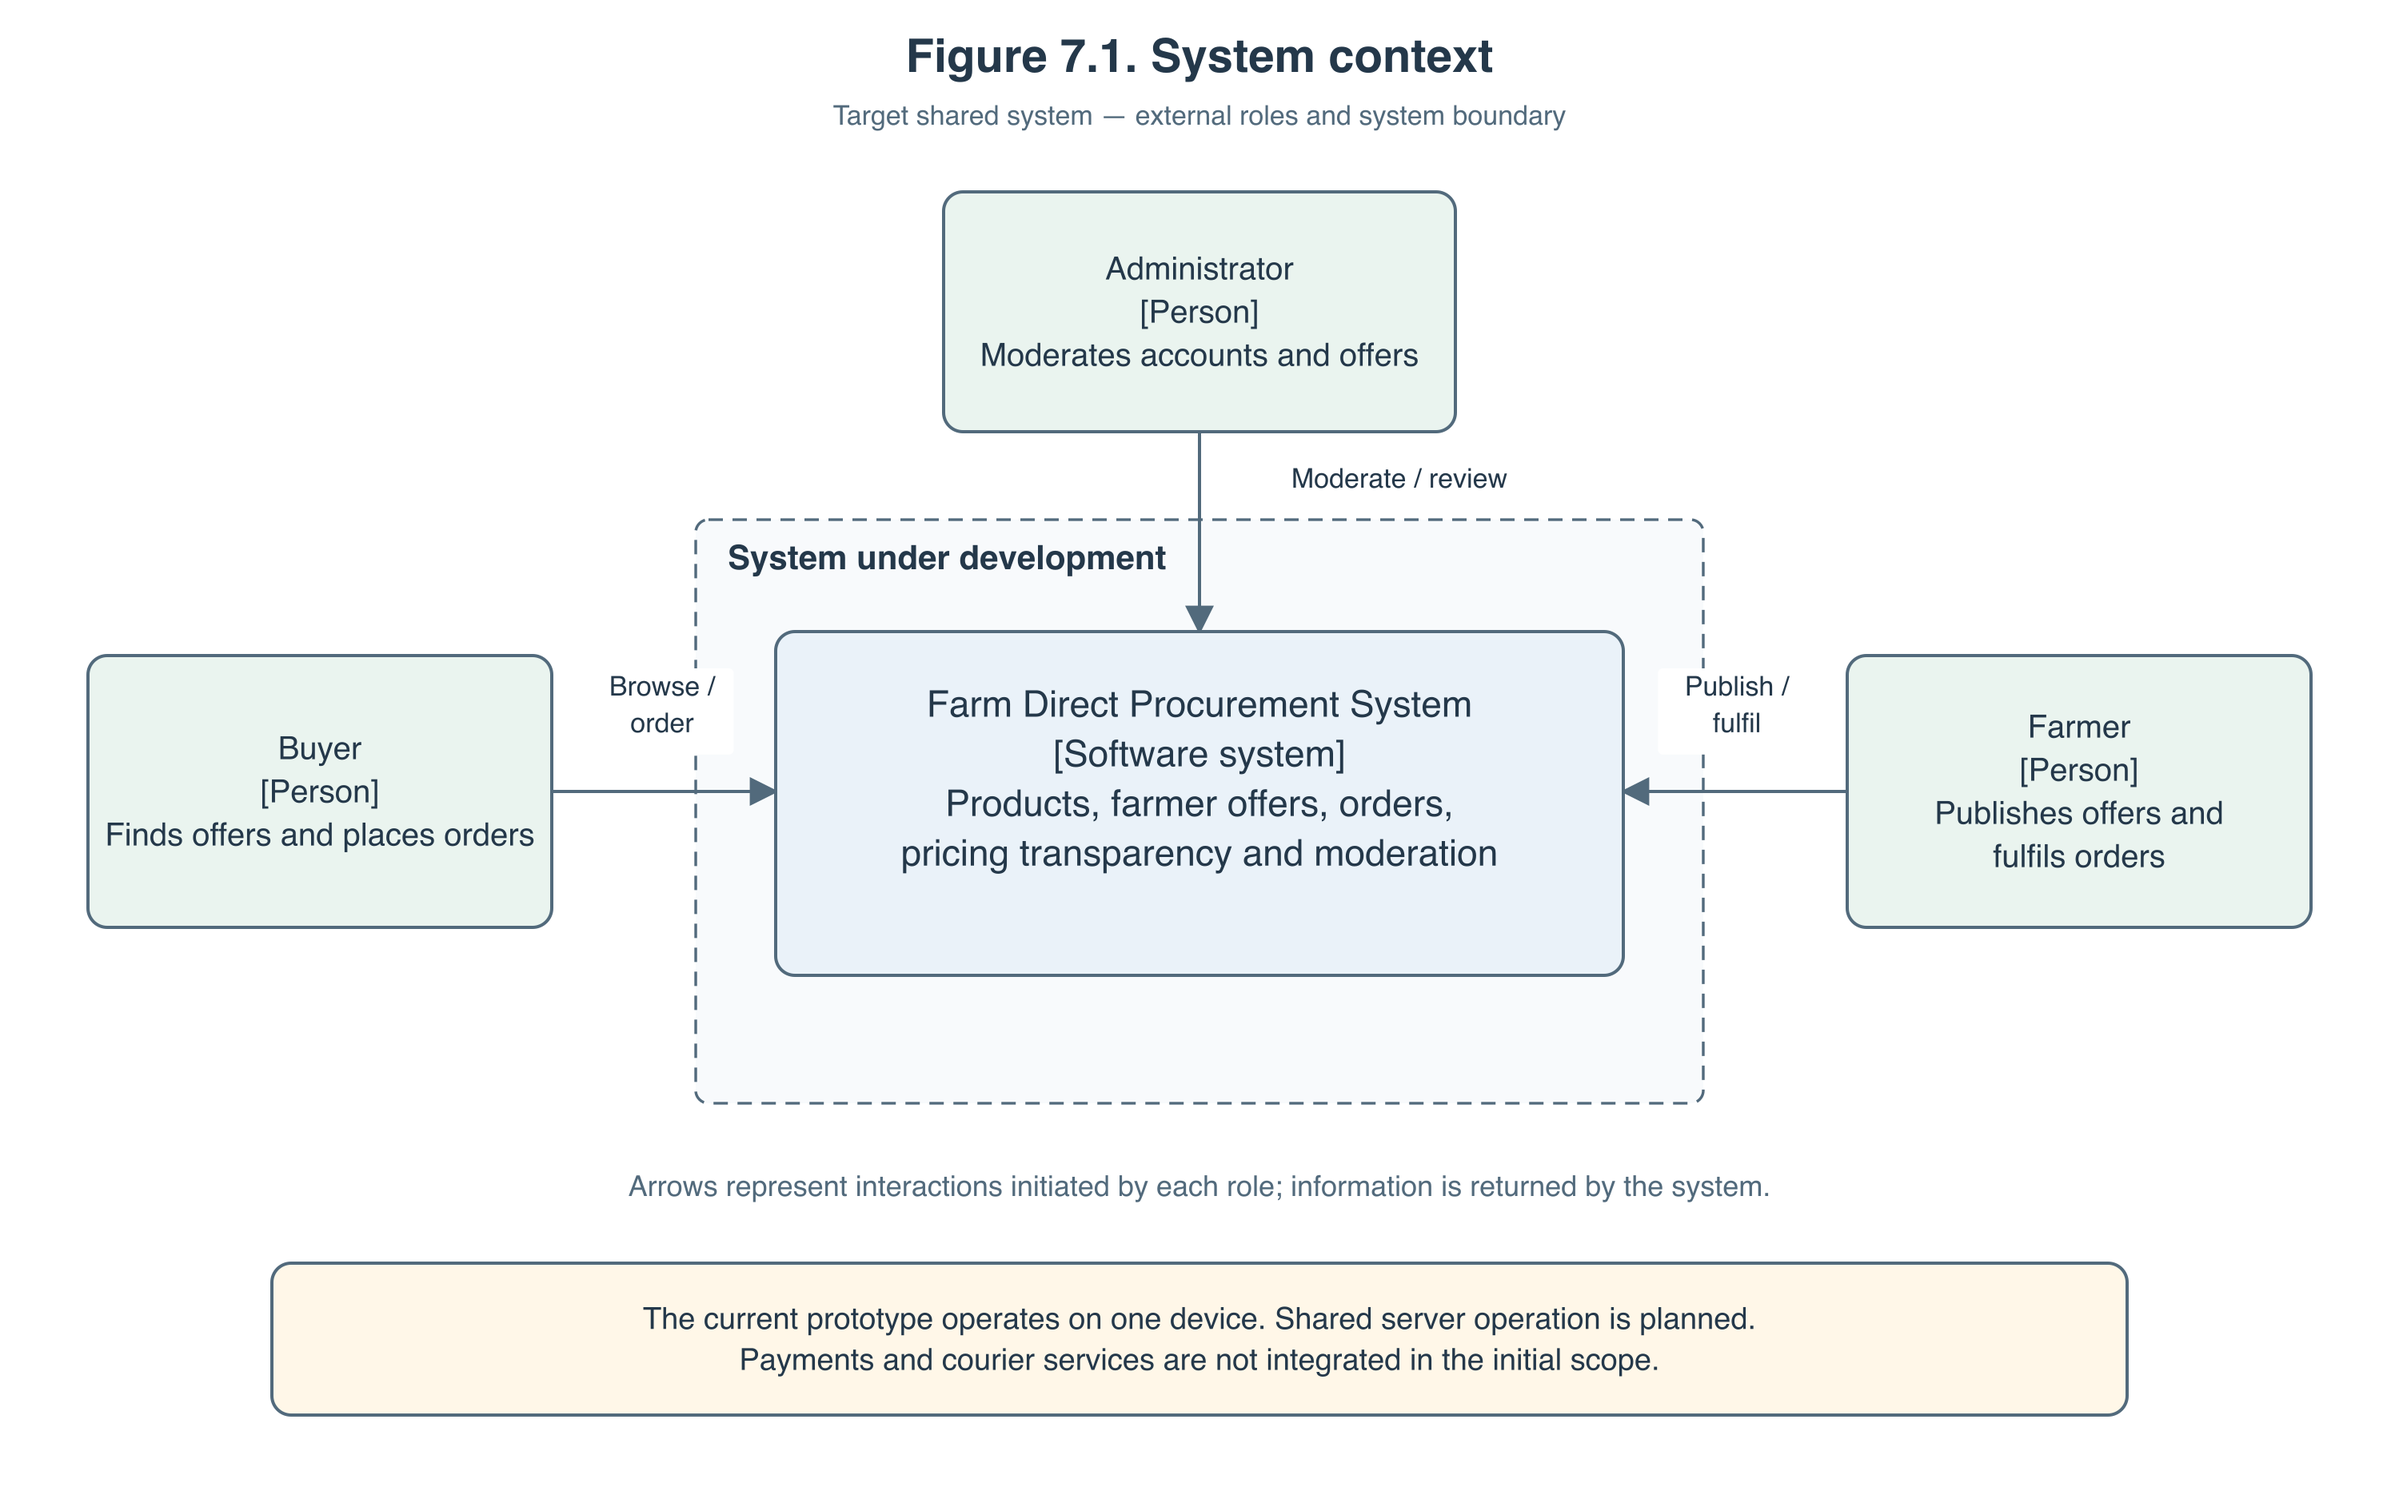
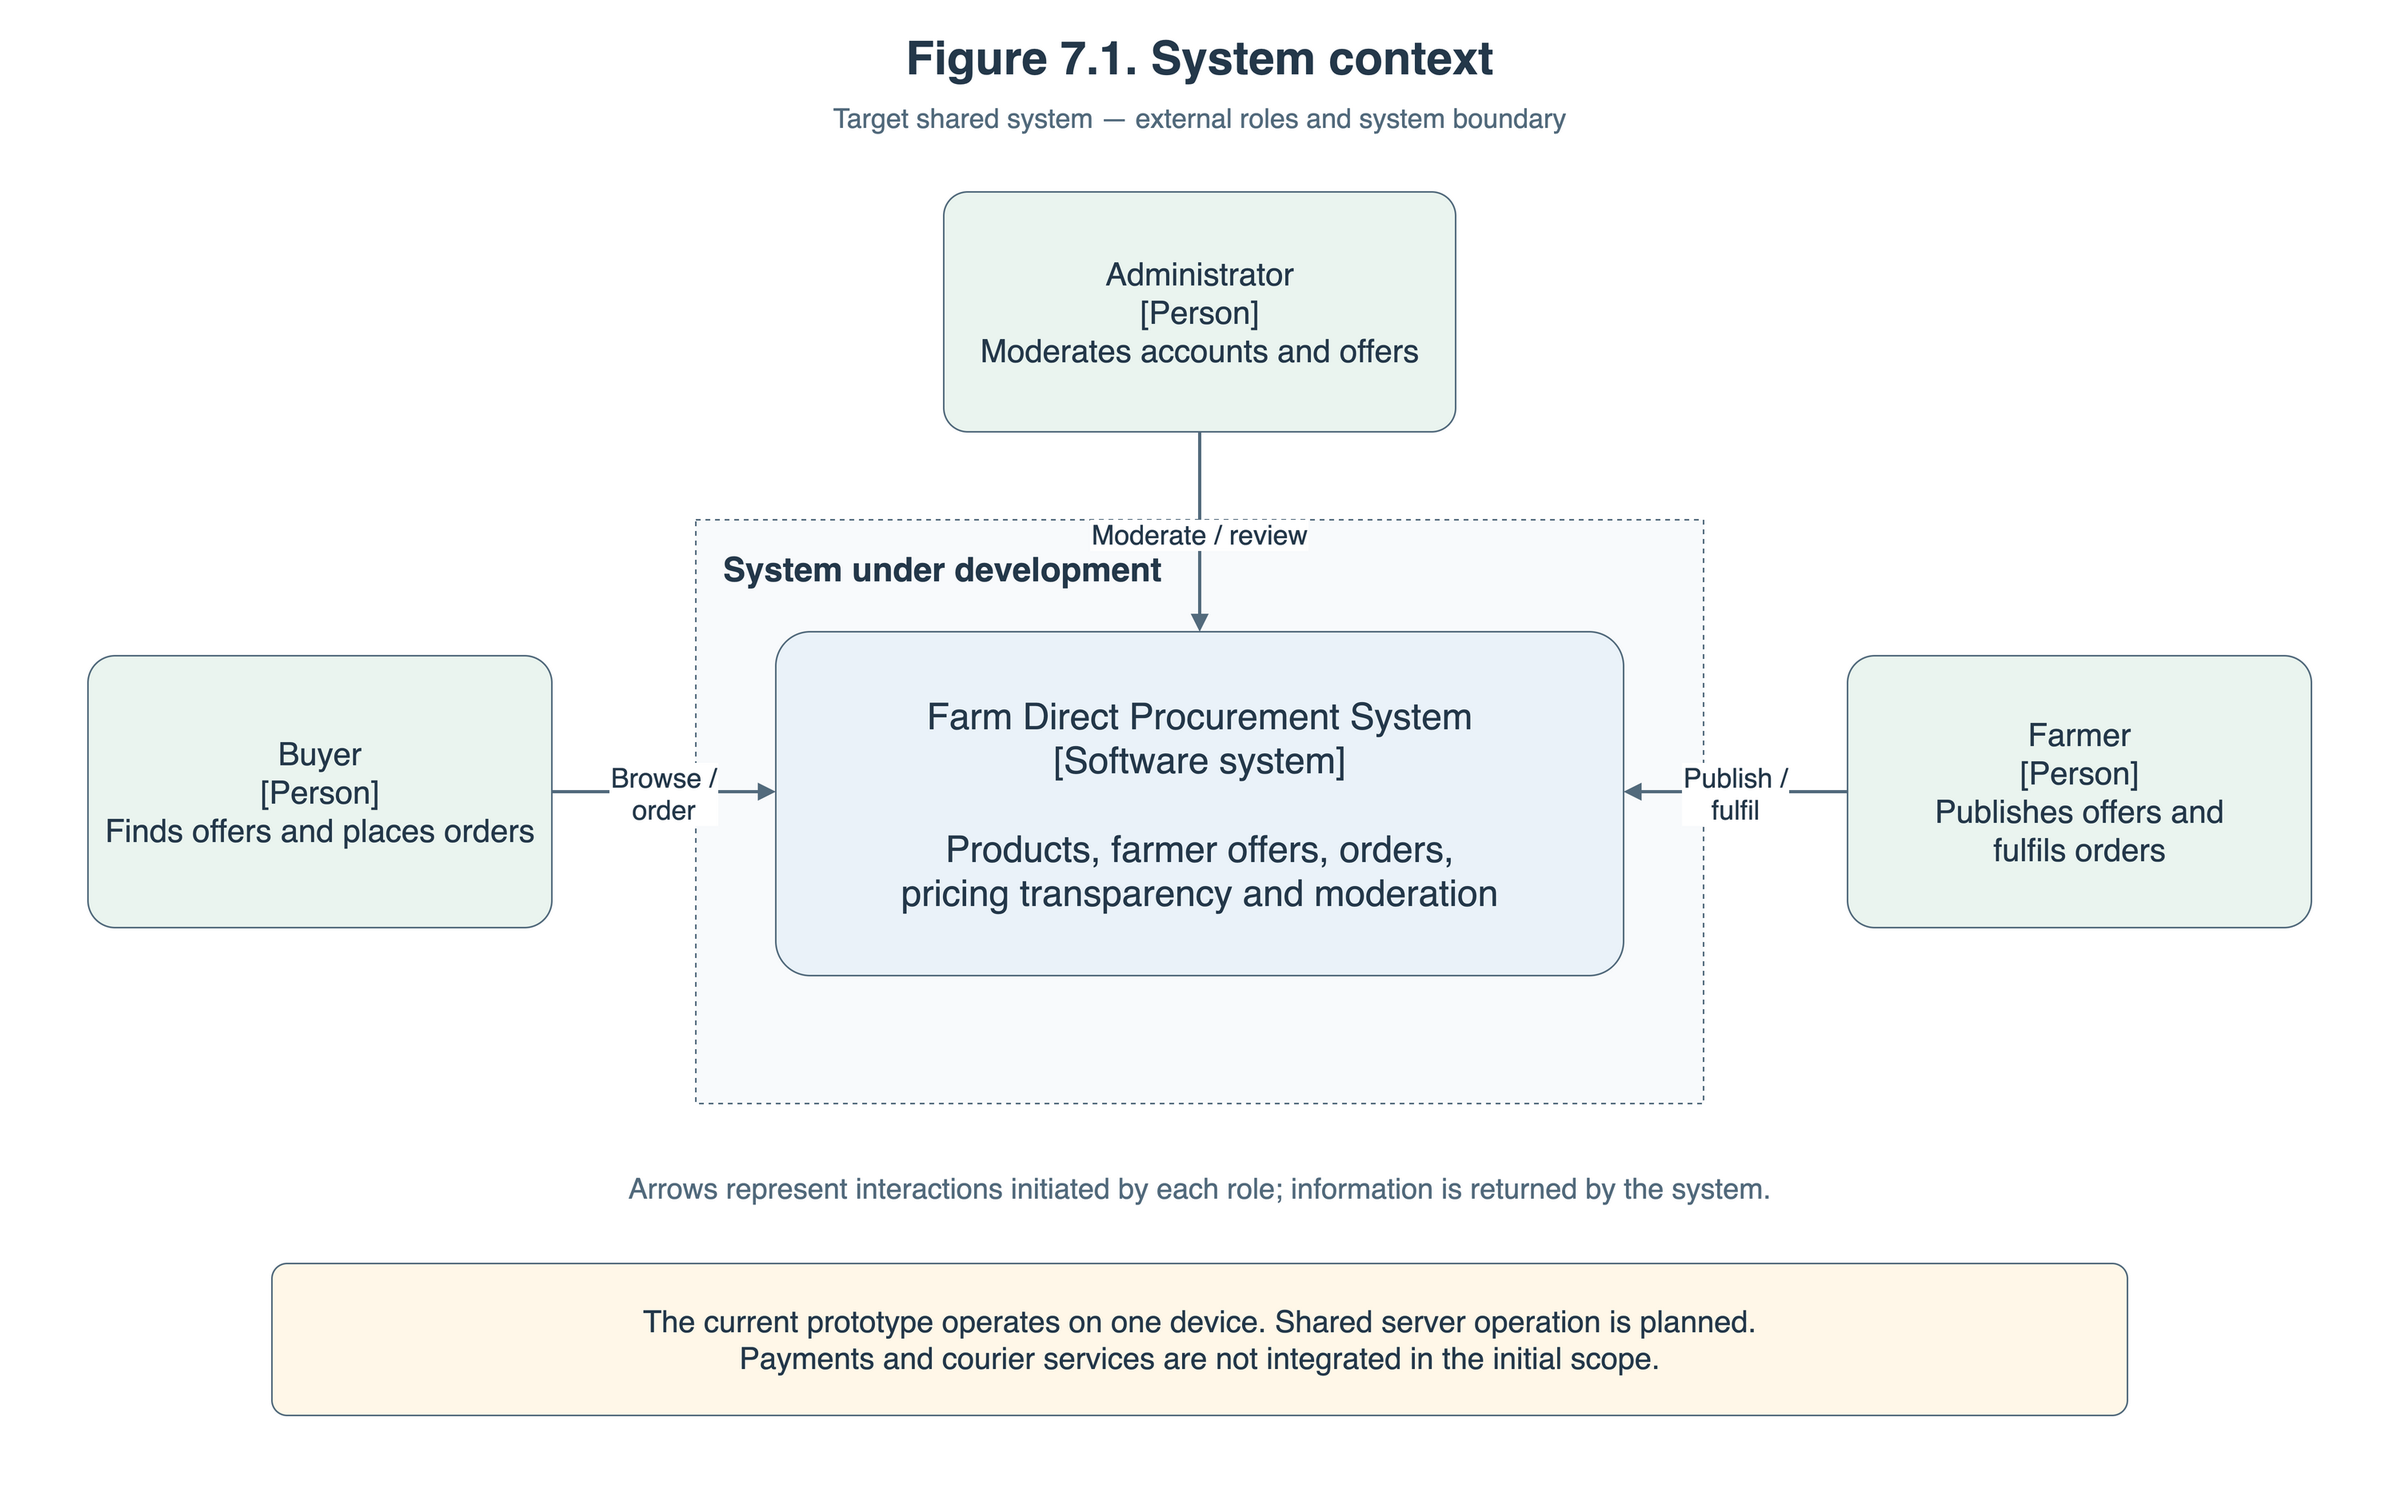
FARM-16: Regenerate all diagram exports from editable source

diff --git a/diagrams/README.md b/diagrams/README.md
@@ -32,9 +32,32 @@ shapes, labels and connectors. The source is uncompressed diagrams.net XML.
    if the design changes, and include the FARM task ID in the change's branch
    and commit or PR description.
 
-The initial repository copies preserve the existing source and exports without
-changing their bytes. Layout details in later exports can depend on the editor;
-check the resulting images for clipped labels and connector alignment.
+All visible figure titles, subtitles, workflow headings and explanatory notes
+are individual text objects in the `.drawio` source. Edit these source objects
+before exporting; captions are not added separately to the images.
+
+## Reproducing the Published Exports
+
+The exports are generated directly from the `.drawio` file with draw.io Desktop
+32.6.1. From the repository root, run:
+
+```sh
+bash diagrams/export.sh
+```
+
+On macOS, point the script to the installed executable:
+
+```sh
+DRAWIO_BIN="/Applications/draw.io.app/Contents/MacOS/draw.io" bash diagrams/export.sh
+```
+
+The script exports pages 1–3 as light-theme SVG at scale 1 and PNG at scale 2,
+using the page-size setting and embedding diagram data. SVG fonts are not
+embedded. Its temporary application profile is separate from the normal editor
+profile; `DRAWIO_PROFILE_DIR` can specify another temporary directory.
+The source and all six exports must be reviewed and committed together after
+changes. Layout details can depend on the draw.io version and available fonts;
+check the rendered images for clipped labels and connector alignment.
 
 ## Implementation Status and Review
 
